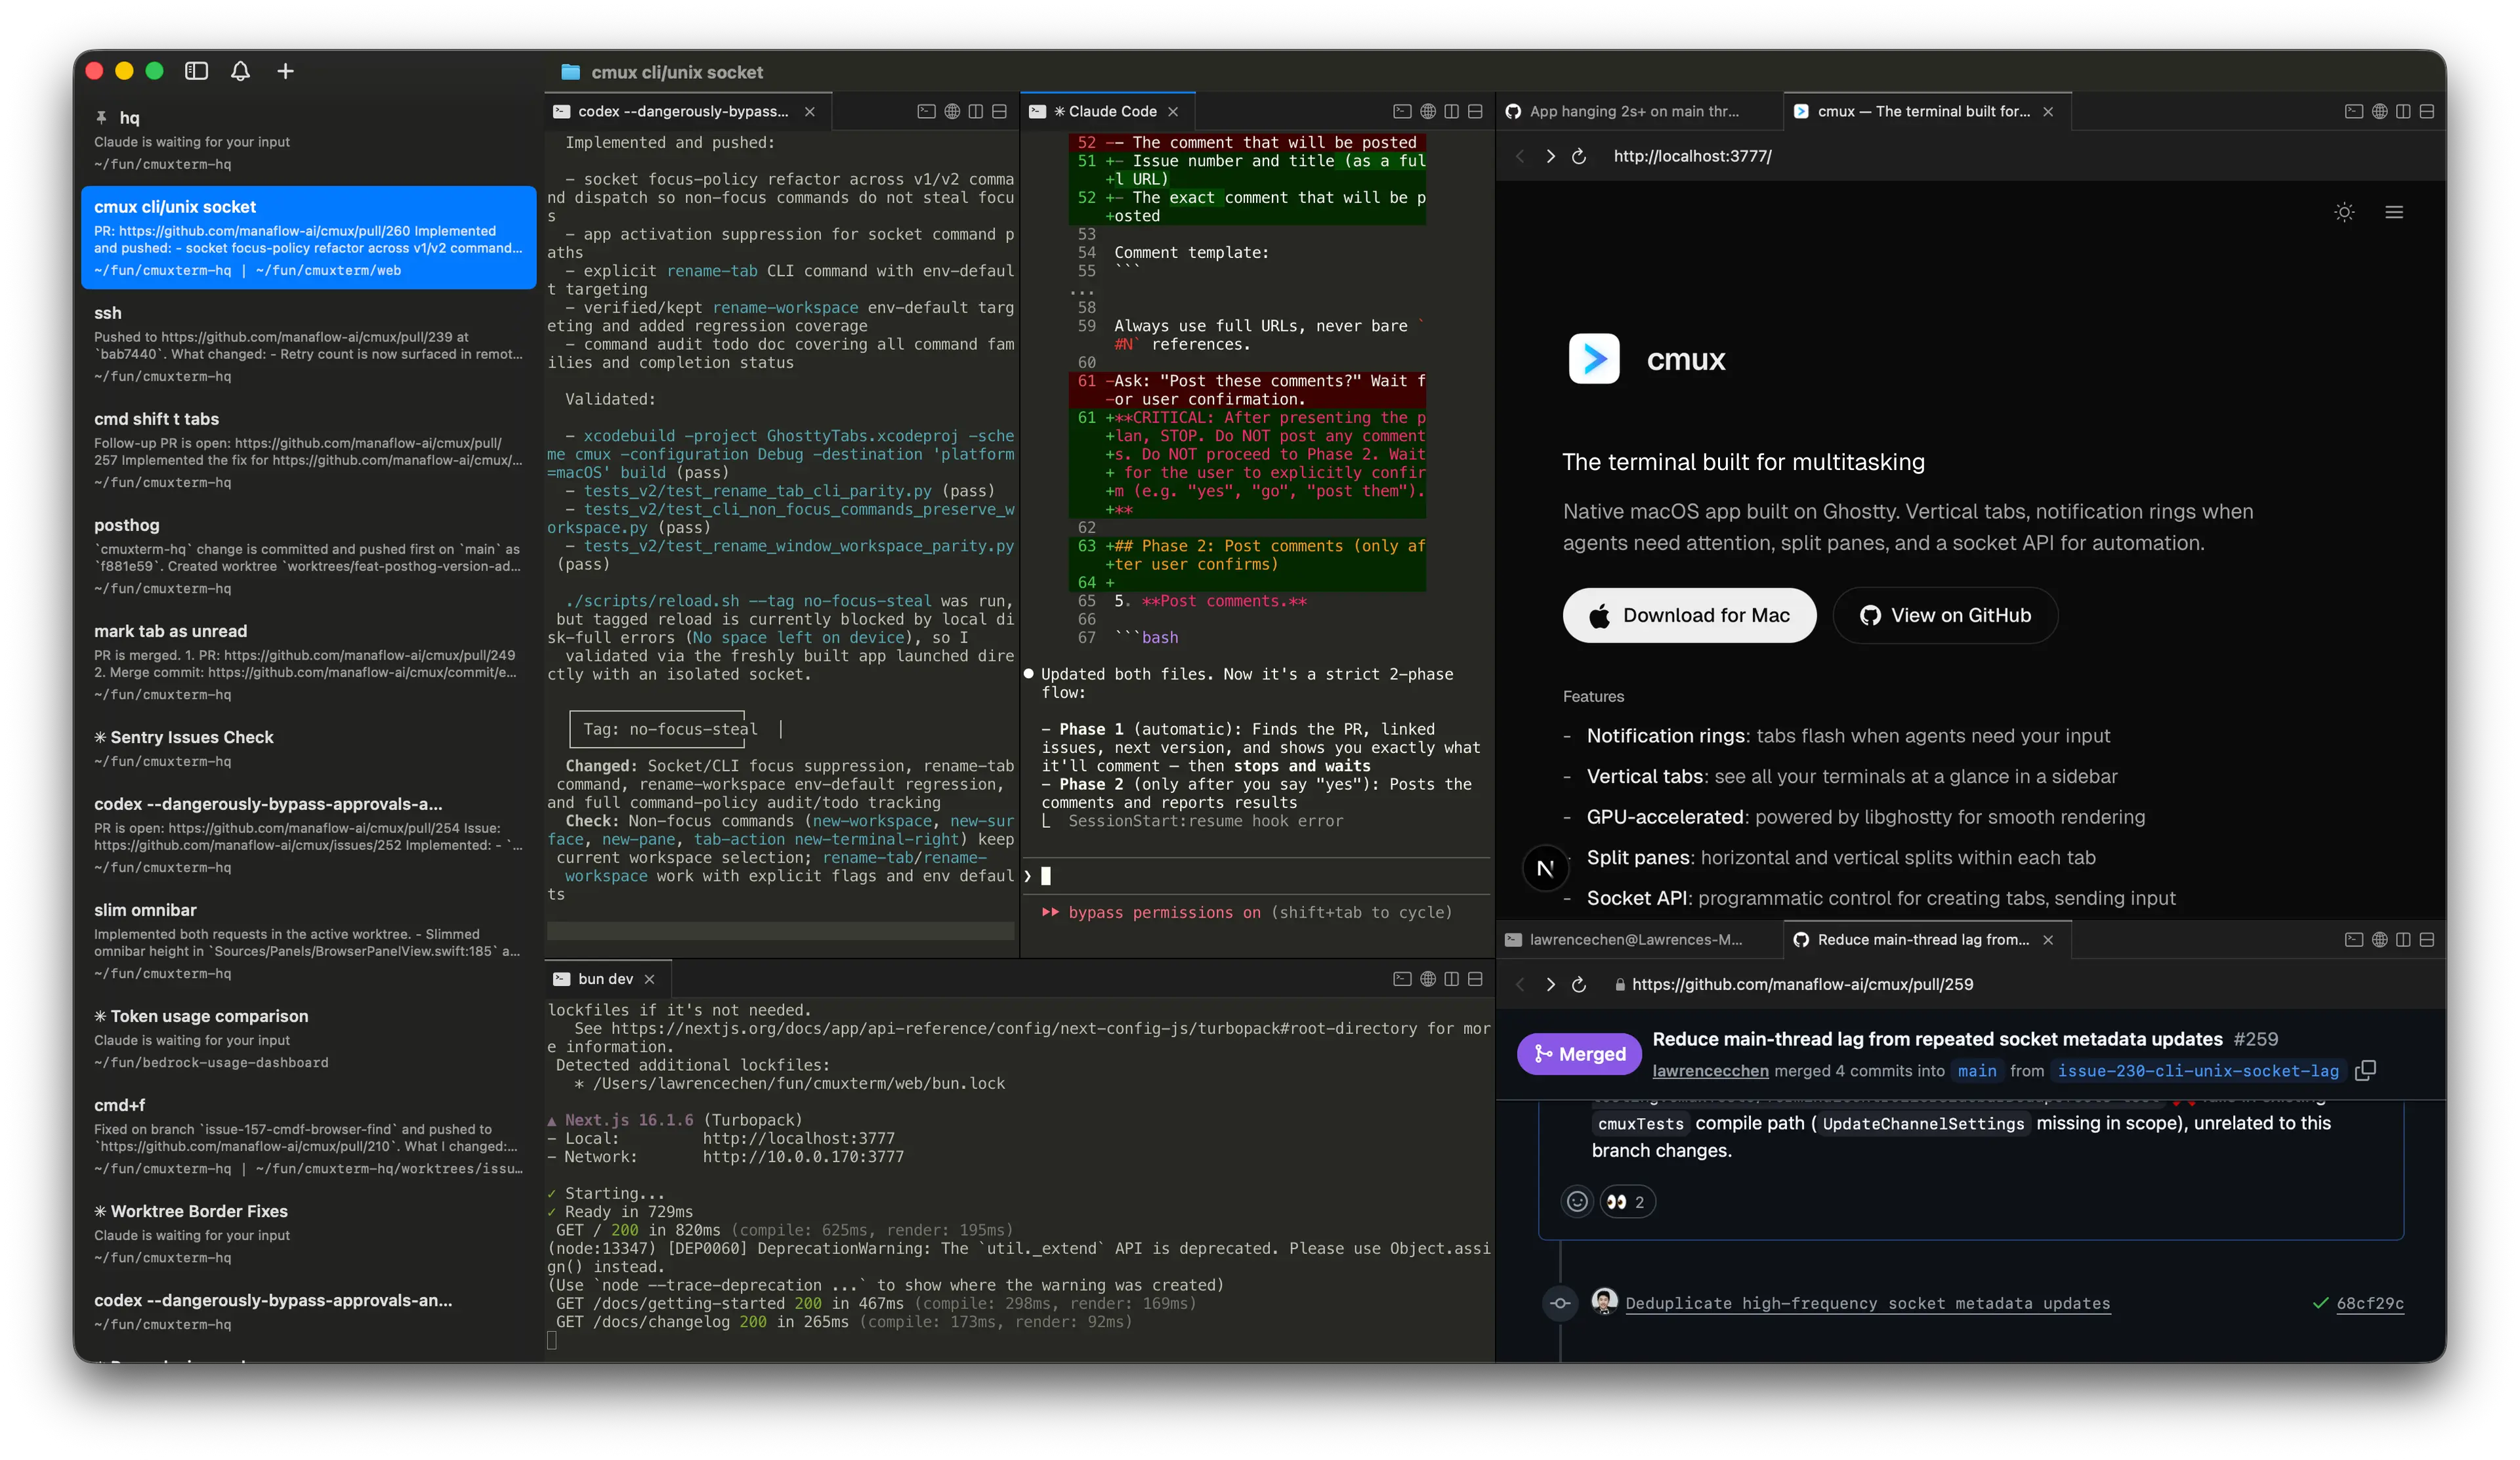
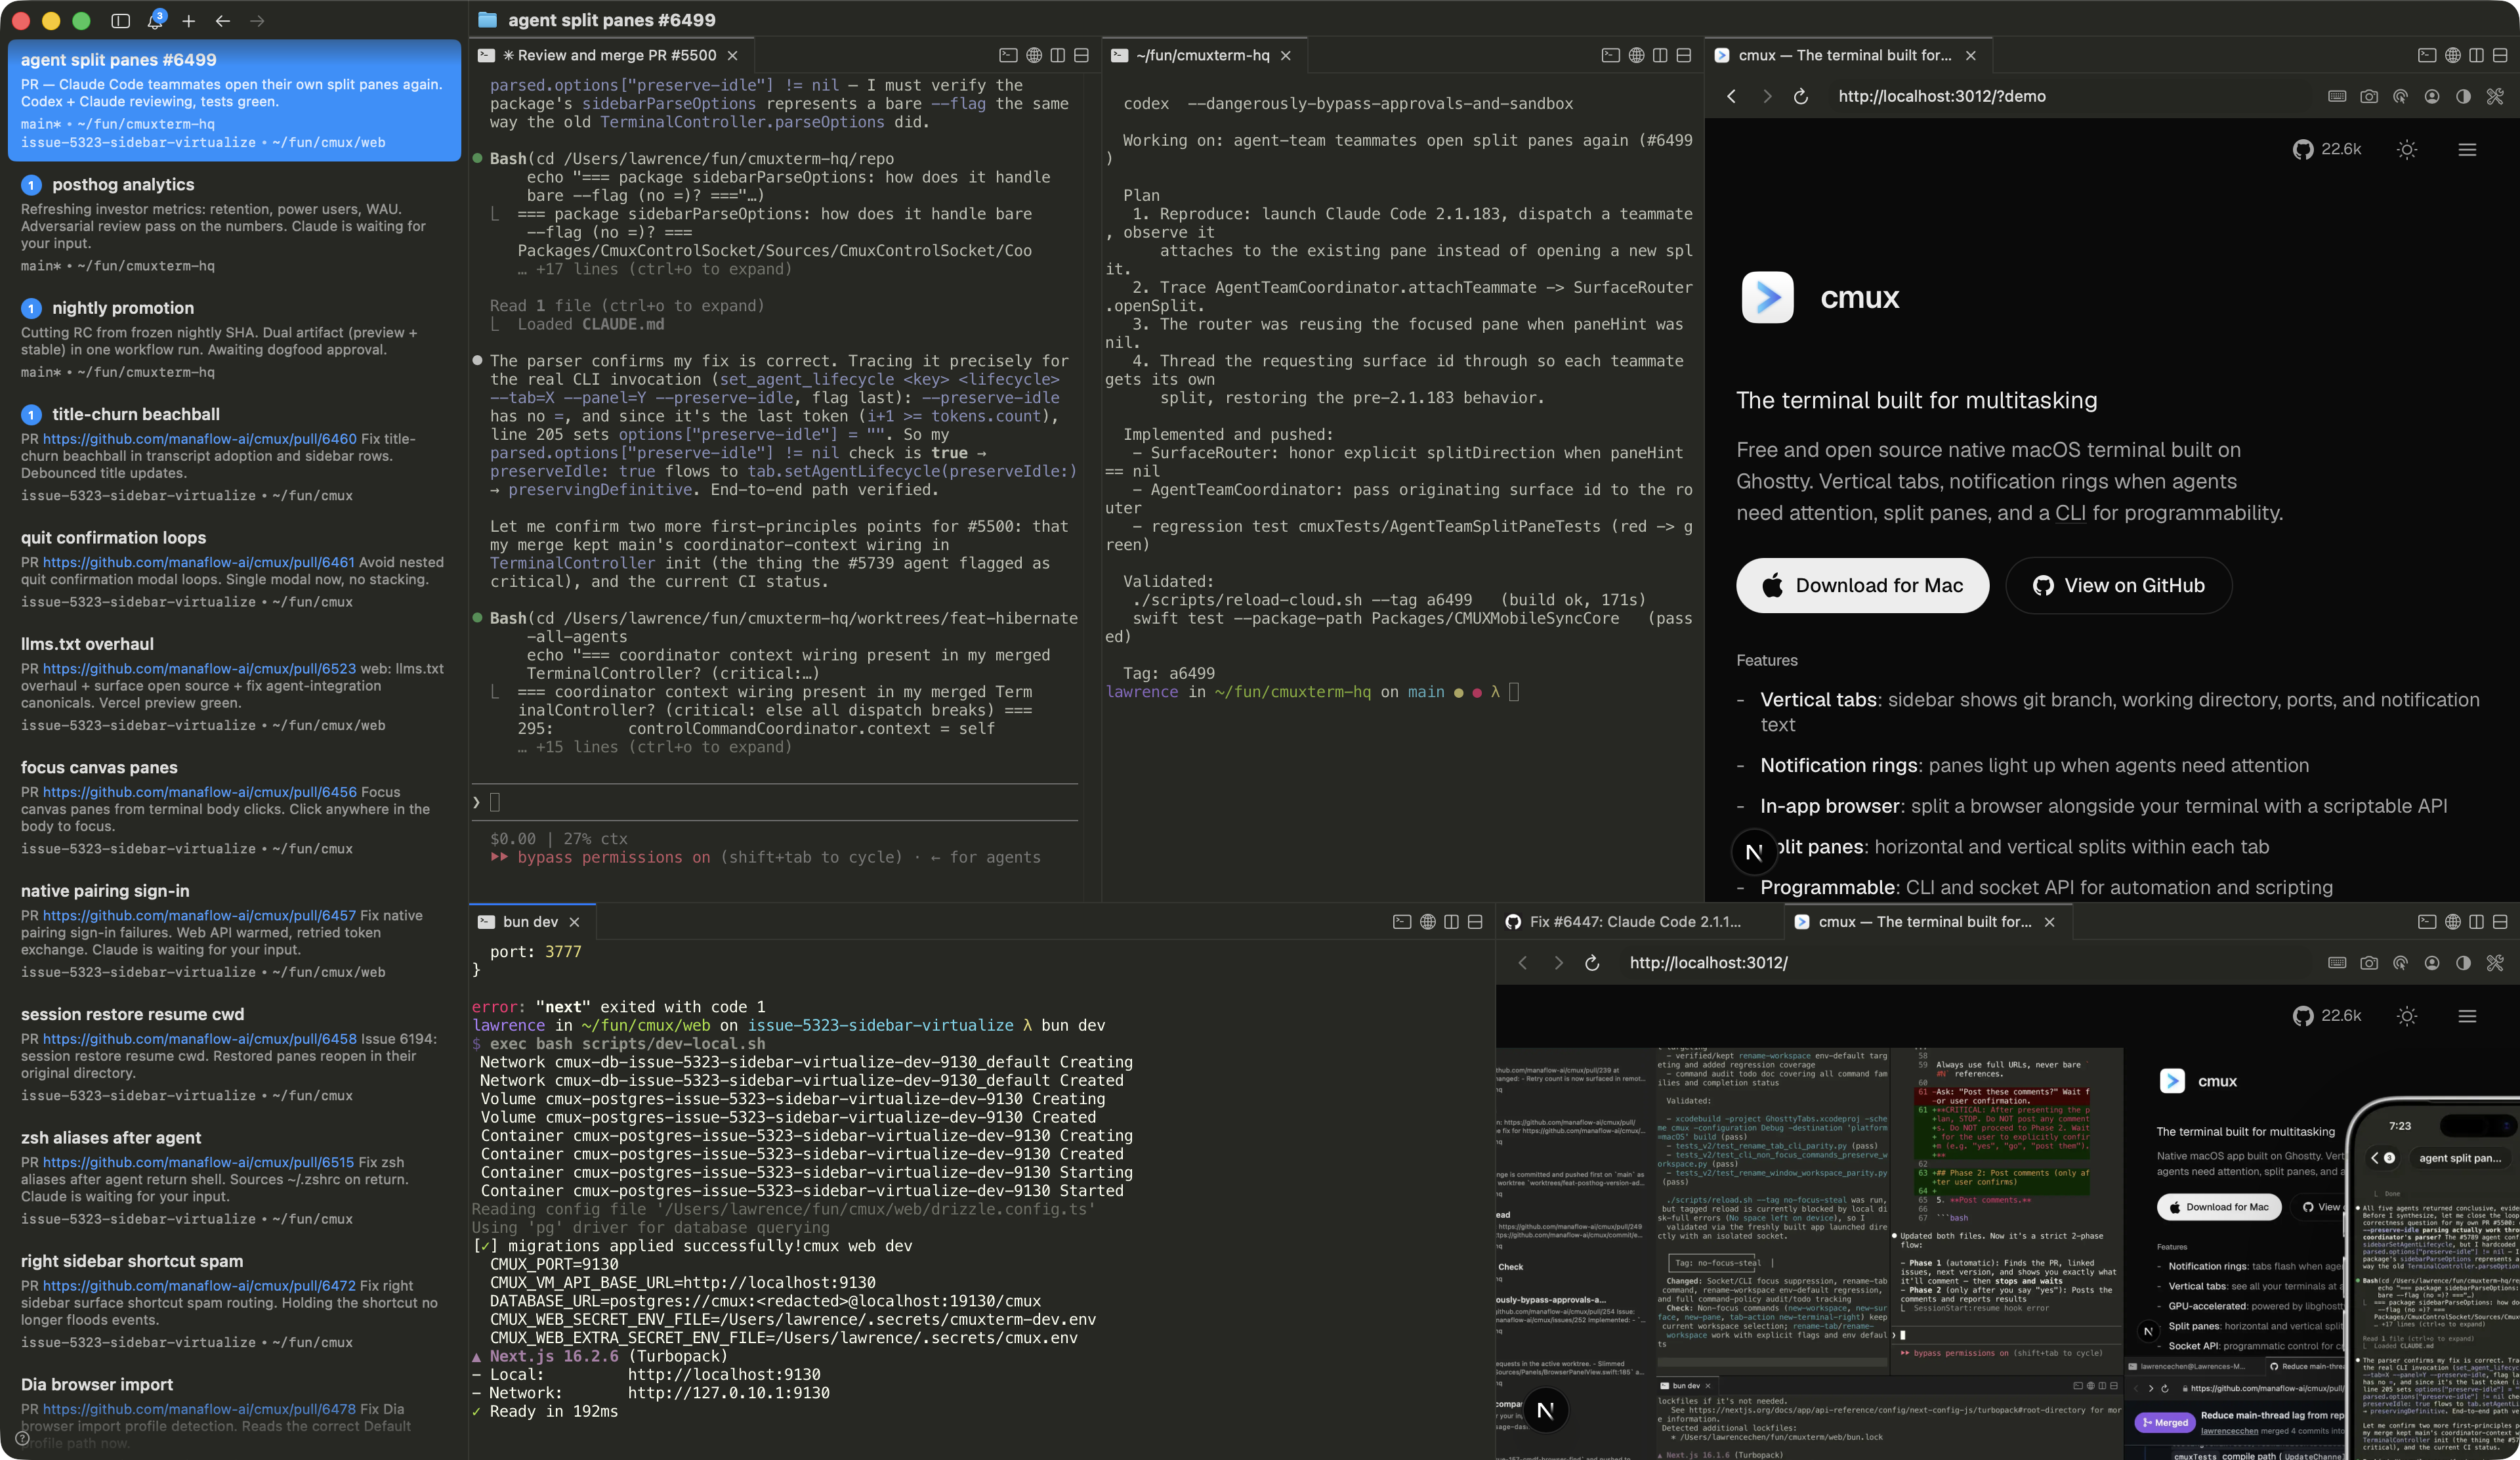
web: iOS landing page + hero polish
- New /ios landing page (cmux.com/ios) in the homepage style: iOS hero,
  realtime-sync messaging, feature list, how-it-works, links to the iOS
  docs. Localized (en + ja), added to sitemap.
- Homepage hero: replace the Mac screenshot with the current build, make
  the framed iPhone larger and shifted left, link it to /docs/ios, and
  swap to the Black Titanium frame.
- Phone entrance animation reworked (blur + slide + settle) and the
  continuous float removed.
- Add an "iOS app" feature bullet to the homepage (realtime terminal
  sync, bring your own Tailscale/network), localized en + ja.

diff --git a/web/app/[locale]/ios/page.tsx b/web/app/[locale]/ios/page.tsx
@@ -1,0 +1,141 @@
+import { useTranslations } from "next-intl";
+import { getTranslations } from "next-intl/server";
+import Image from "next/image";
+import { Link } from "../../../i18n/navigation";
+import { buildAlternates } from "../../../i18n/seo";
+import { SiteHeader } from "../components/site-header";
+import { BrandLogoLink } from "../components/brand-logo-link";
+import { GitHubButton } from "../components/github-button";
+import phoneImage from "../assets/landing-iphone.png";
+
+export async function generateMetadata({
+  params,
+}: {
+  params: Promise<{ locale: string }>;
+}) {
+  const { locale } = await params;
+  const t = await getTranslations({ locale, namespace: "ios" });
+  return {
+    title: t("metaTitle"),
+    description: t("metaDescription"),
+    alternates: buildAlternates(locale, "/ios"),
+  };
+}
+
+export default function IosLanding() {
+  const t = useTranslations("ios");
+
+  const linkClass =
+    "underline underline-offset-2 decoration-border hover:decoration-foreground transition-colors";
+
+  const features = [
+    ["realtimeSync", "realtimeSyncDesc"],
+    ["byoNetwork", "byoNetworkDesc"],
+    ["verticalTabs", "verticalTabsDesc"],
+    ["notifications", "notificationsDesc"],
+    ["keyboard", "keyboardDesc"],
+    ["native", "nativeDesc"],
+  ] as const;
+
+  return (
+    <div className="min-h-screen">
+      <SiteHeader hideLogo />
+
+      <main className="w-full max-w-2xl mx-auto px-6 py-16 sm:py-24">
+        {/* Header */}
+        <div className="flex items-center gap-4 mb-10" data-dev="ios-header">
+          <BrandLogoLink className="shrink-0">
+            <img
+              src="/logo.png"
+              alt="cmux icon"
+              width={48}
+              height={48}
+              className="rounded-xl"
+            />
+          </BrandLogoLink>
+          <h1 className="text-2xl font-semibold tracking-tight">
+            {t("title")}
+          </h1>
+        </div>
+
+        {/* Tagline */}
+        <p className="text-lg leading-relaxed mb-3 text-foreground">
+          {t("tagline")}
+        </p>
+        <p className="text-base text-muted" style={{ lineHeight: 1.5 }}>
+          {t("subtitle")}
+        </p>
+
+        {/* CTA */}
+        <div
+          className="flex flex-wrap items-center gap-3"
+          data-dev="ios-cta"
+          style={{ marginTop: 21, marginBottom: 16 }}
+        >
+          <Link
+            href="/docs/ios"
+            className="inline-flex items-center gap-2 rounded-lg bg-foreground text-background px-4 py-2 text-sm font-medium hover:opacity-90 transition-opacity"
+          >
+            {t("ctaBeta")}
+          </Link>
+          <GitHubButton />
+        </div>
+
+        {/* Phone */}
+        <div
+          data-dev="ios-screenshot"
+          className="my-14 flex justify-center"
+        >
+          <Image
+            src={phoneImage}
+            alt={t("screenshotAlt")}
+            priority
+            sizes="(max-width: 640px) 70vw, 320px"
+            className="w-[64%] max-w-[320px] h-auto drop-shadow-[0_30px_70px_rgba(0,0,0,0.55)]"
+          />
+        </div>
+
+        {/* Features */}
+        <section data-dev="ios-features" style={{ paddingBottom: 15 }}>
+          <h2 className="text-xs font-medium text-muted tracking-tight mb-3">
+            {t("features")}
+          </h2>
+          <ul
+            className="space-y-3 text-[15px]"
+            style={{ lineHeight: 1.275 }}
+          >
+            {features.map(([title, desc]) => (
+              <li key={title} className="flex gap-3">
+                <span className="text-muted shrink-0">-</span>
+                <span>
+                  <strong className="font-medium">{t(title)}</strong>
+                  <span className="text-muted">{t(desc)}</span>
+                </span>
+              </li>
+            ))}
+          </ul>
+        </section>
+
+        {/* How it works */}
+        <section data-dev="ios-how" className="mt-8">
+          <h2 className="text-xs font-medium text-muted tracking-tight mb-3">
+            {t("howTitle")}
+          </h2>
+          <p className="text-[15px] text-muted" style={{ lineHeight: 1.5 }}>
+            {t("howBody")}
+          </p>
+        </section>
+
+        {/* Bottom links */}
+        <div className="flex justify-center gap-4 mt-12">
+          <Link href="/docs/ios" className={`text-sm text-muted hover:text-foreground transition-colors ${linkClass}`}>
+            {t("ctaDocs")}
+          </Link>
+          <Link href="/" className={`text-sm text-muted hover:text-foreground transition-colors ${linkClass}`}>
+            {t("backToMac")}
+          </Link>
+        </div>
+      </main>
+    </div>
+  );
+}

diff --git a/web/app/[locale]/components/hero-phone.tsx b/web/app/[locale]/components/hero-phone.tsx
@@ -1,33 +1,38 @@
 import Image from "next/image";
+import { Link } from "../../../i18n/navigation";
 import phoneImage from "../assets/landing-iphone.png";
 
 // Framed iPhone overlapping the bottom-right of the Mac hero screenshot.
-// Subtle motion: a one-time fade/slide-in on load, then a slow continuous float.
-// Both are pure CSS (no JS) and disabled under prefers-reduced-motion.
+// Subtle motion: a single fade/slide-in on load. No continuous animation.
+// Pure CSS (no JS) and disabled under prefers-reduced-motion. Links to the iOS docs.
 export function HeroPhone() {
   return (
-    <div className="hero-phone pointer-events-none absolute z-10 right-[1%] -bottom-[6%] w-[30%] sm:w-[25%] md:w-[22%] lg:w-[20%] max-w-[260px]">
-      <div className="hero-phone-float drop-shadow-[0_28px_60px_rgba(0,0,0,0.5)]">
+    <div className="hero-phone pointer-events-none absolute z-10 right-[7%] -bottom-[6%] w-[34%] sm:w-[28%] md:w-[26%] lg:w-[25%] max-w-[360px] drop-shadow-[0_28px_60px_rgba(0,0,0,0.5)]">
+      <Link
+        href="/docs/ios"
+        aria-label="cmux on iOS"
+        className="pointer-events-auto block transition-transform duration-300 ease-out hover:-translate-y-1 hover:scale-[1.02]"
+      >
         <Image
           src={phoneImage}
           alt="cmux iOS app mirroring a live agent terminal"
-          sizes="(max-width: 640px) 30vw, (max-width: 1024px) 22vw, 260px"
+          sizes="(max-width: 640px) 34vw, (max-width: 1024px) 26vw, 360px"
           className="w-full h-auto select-none"
         />
-      </div>
+      </Link>
       <style>{`
-        .hero-phone { animation: heroPhoneIn 1000ms cubic-bezier(.2,.7,.2,1) 450ms both; }
-        .hero-phone-float { animation: heroPhoneFloat 6.5s ease-in-out infinite; will-change: transform; }
-        @keyframes heroPhoneIn {
-          from { opacity: 0; transform: translateY(36px) scale(.95); }
-          to   { opacity: 1; transform: translateY(0) scale(1); }
+        .hero-phone {
+          animation: heroPhoneIn 1150ms cubic-bezier(.22,1.18,.36,1) 350ms both;
+          transform-origin: 70% 100%;
+          will-change: transform, opacity, filter;
         }
-        @keyframes heroPhoneFloat {
-          0%, 100% { transform: translateY(0); }
-          50%      { transform: translateY(-10px); }
+        @keyframes heroPhoneIn {
+          0%   { opacity: 0; transform: translateY(64px) scale(.9) rotate(2.5deg); filter: blur(8px); }
+          55%  { opacity: 1; filter: blur(0); }
+          100% { opacity: 1; transform: translateY(0) scale(1) rotate(0deg); filter: blur(0); }
         }
         @media (prefers-reduced-motion: reduce) {
-          .hero-phone, .hero-phone-float { animation: none; }
+          .hero-phone { animation: none; }
         }
       `}</style>
     </div>

diff --git a/web/app/[locale]/page.tsx b/web/app/[locale]/page.tsx
@@ -102,6 +102,7 @@ function HomeContent() {
               [
                 ["verticalTabs", "verticalTabsDesc"],
                 ["notificationRings", "notificationRingsDesc"],
+                ["ios", "iosDesc"],
                 ["inAppBrowser", "inAppBrowserDesc"],
                 ["splitPanes", "splitPanesDesc"],
                 ["scriptable", "scriptableDesc"],

diff --git a/web/app/sitemap.ts b/web/app/sitemap.ts
@@ -6,6 +6,7 @@ export default function sitemap(): MetadataRoute.Sitemap {
 
   const paths = [
     { path: "", lastModified: "2026-03-18", changeFrequency: "weekly" as const, priority: 1 },
+    { path: "/ios", lastModified: "2026-06-22", changeFrequency: "monthly" as const, priority: 0.8 },
     { path: "/blog", lastModified: "2026-06-02", changeFrequency: "weekly" as const, priority: 0.8 },
     { path: "/blog/cmux-history", lastModified: "2026-06-02", changeFrequency: "monthly" as const, priority: 0.7 },
     { path: "/blog/cmux-finder", lastModified: "2026-05-22", changeFrequency: "monthly" as const, priority: 0.7 },